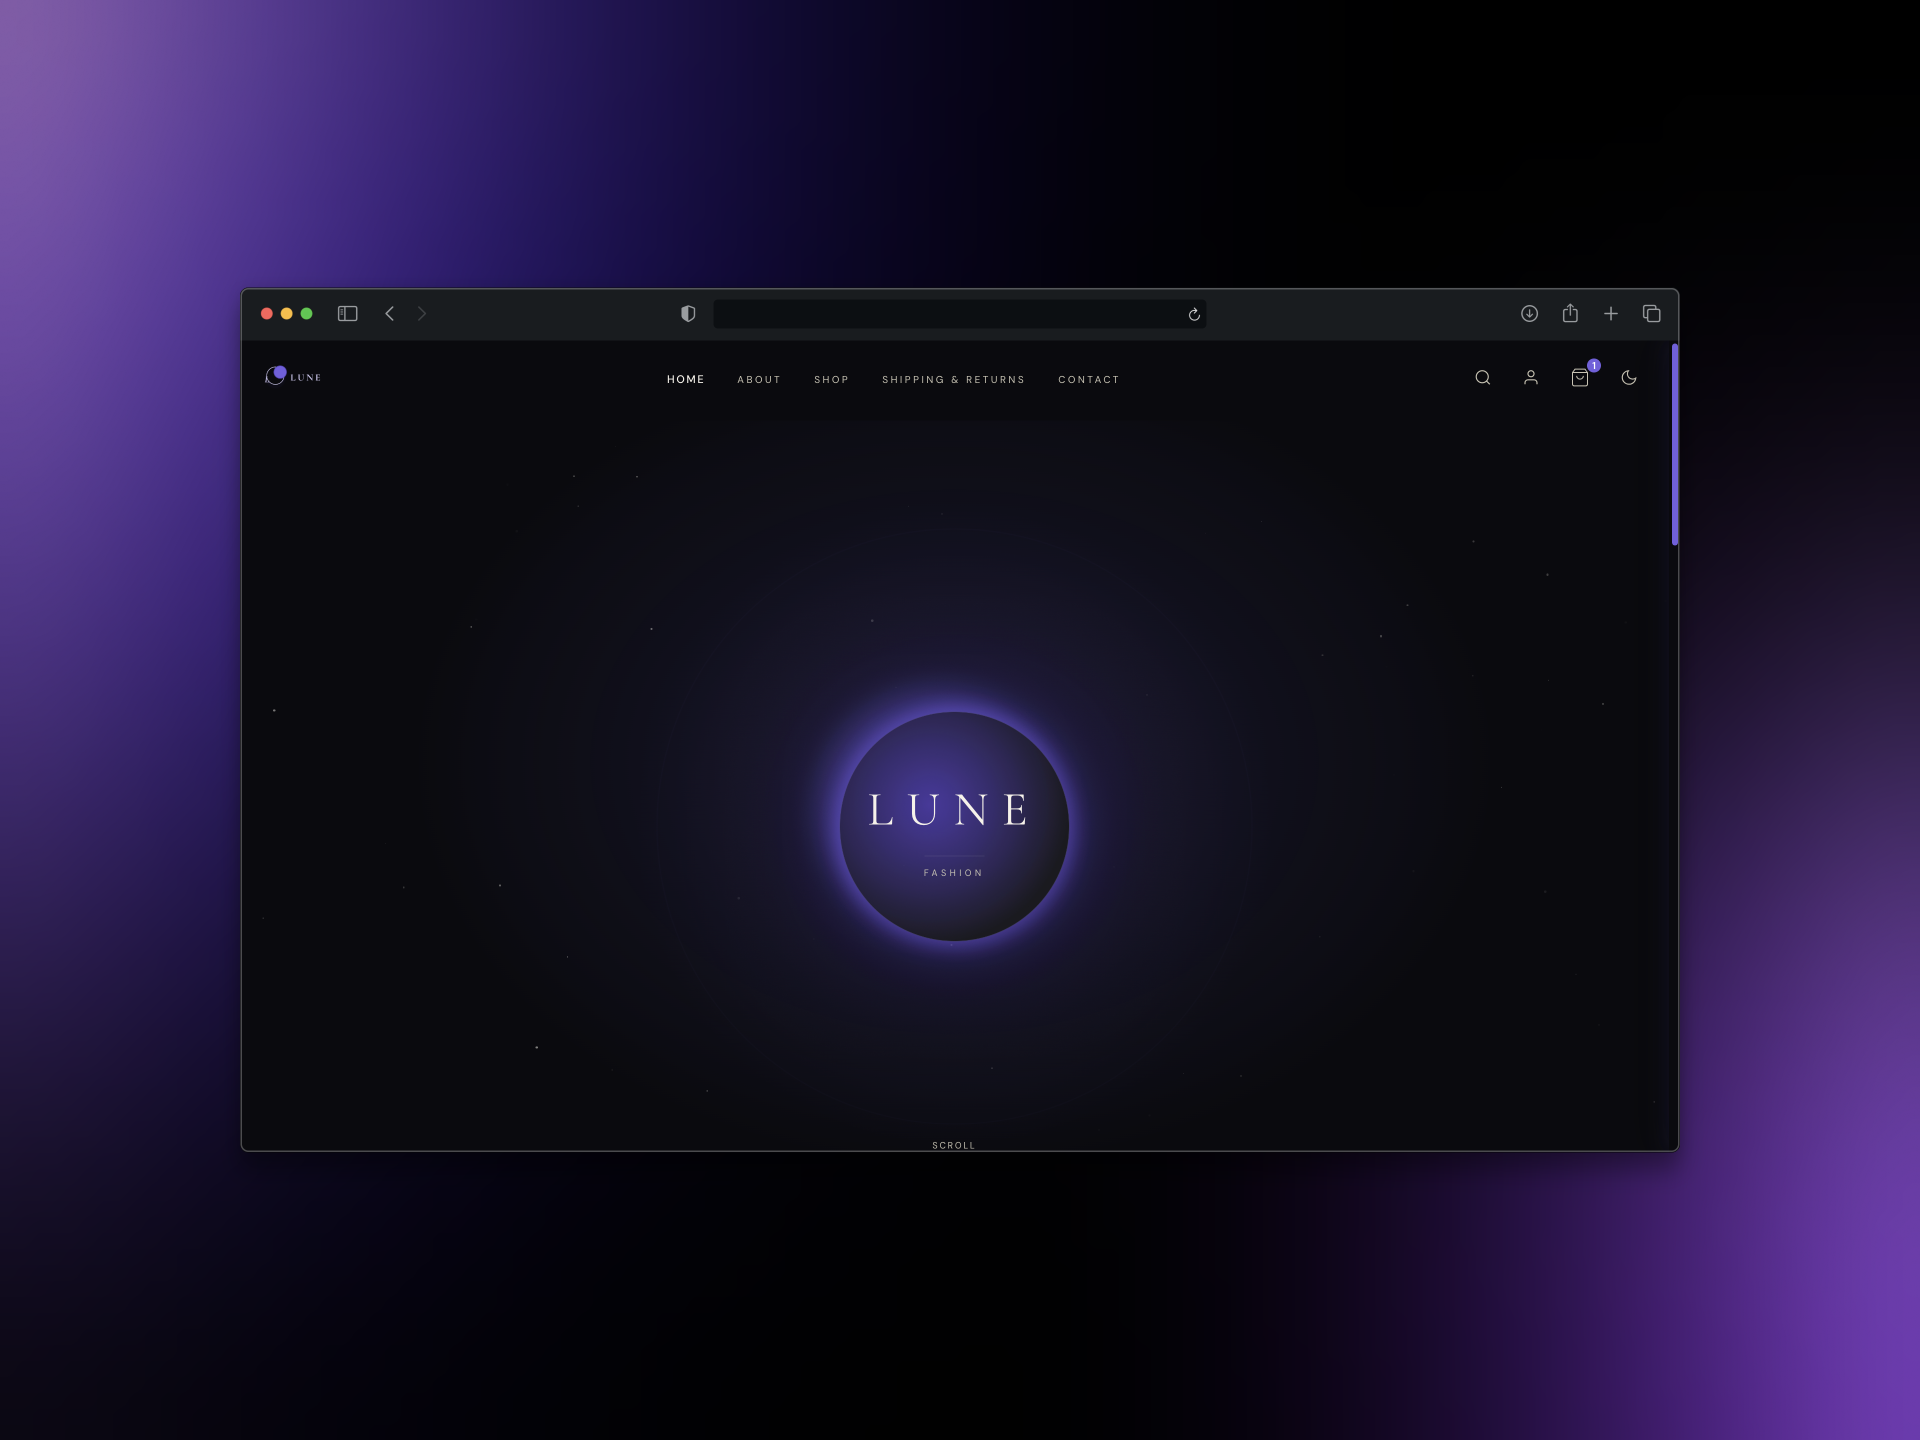
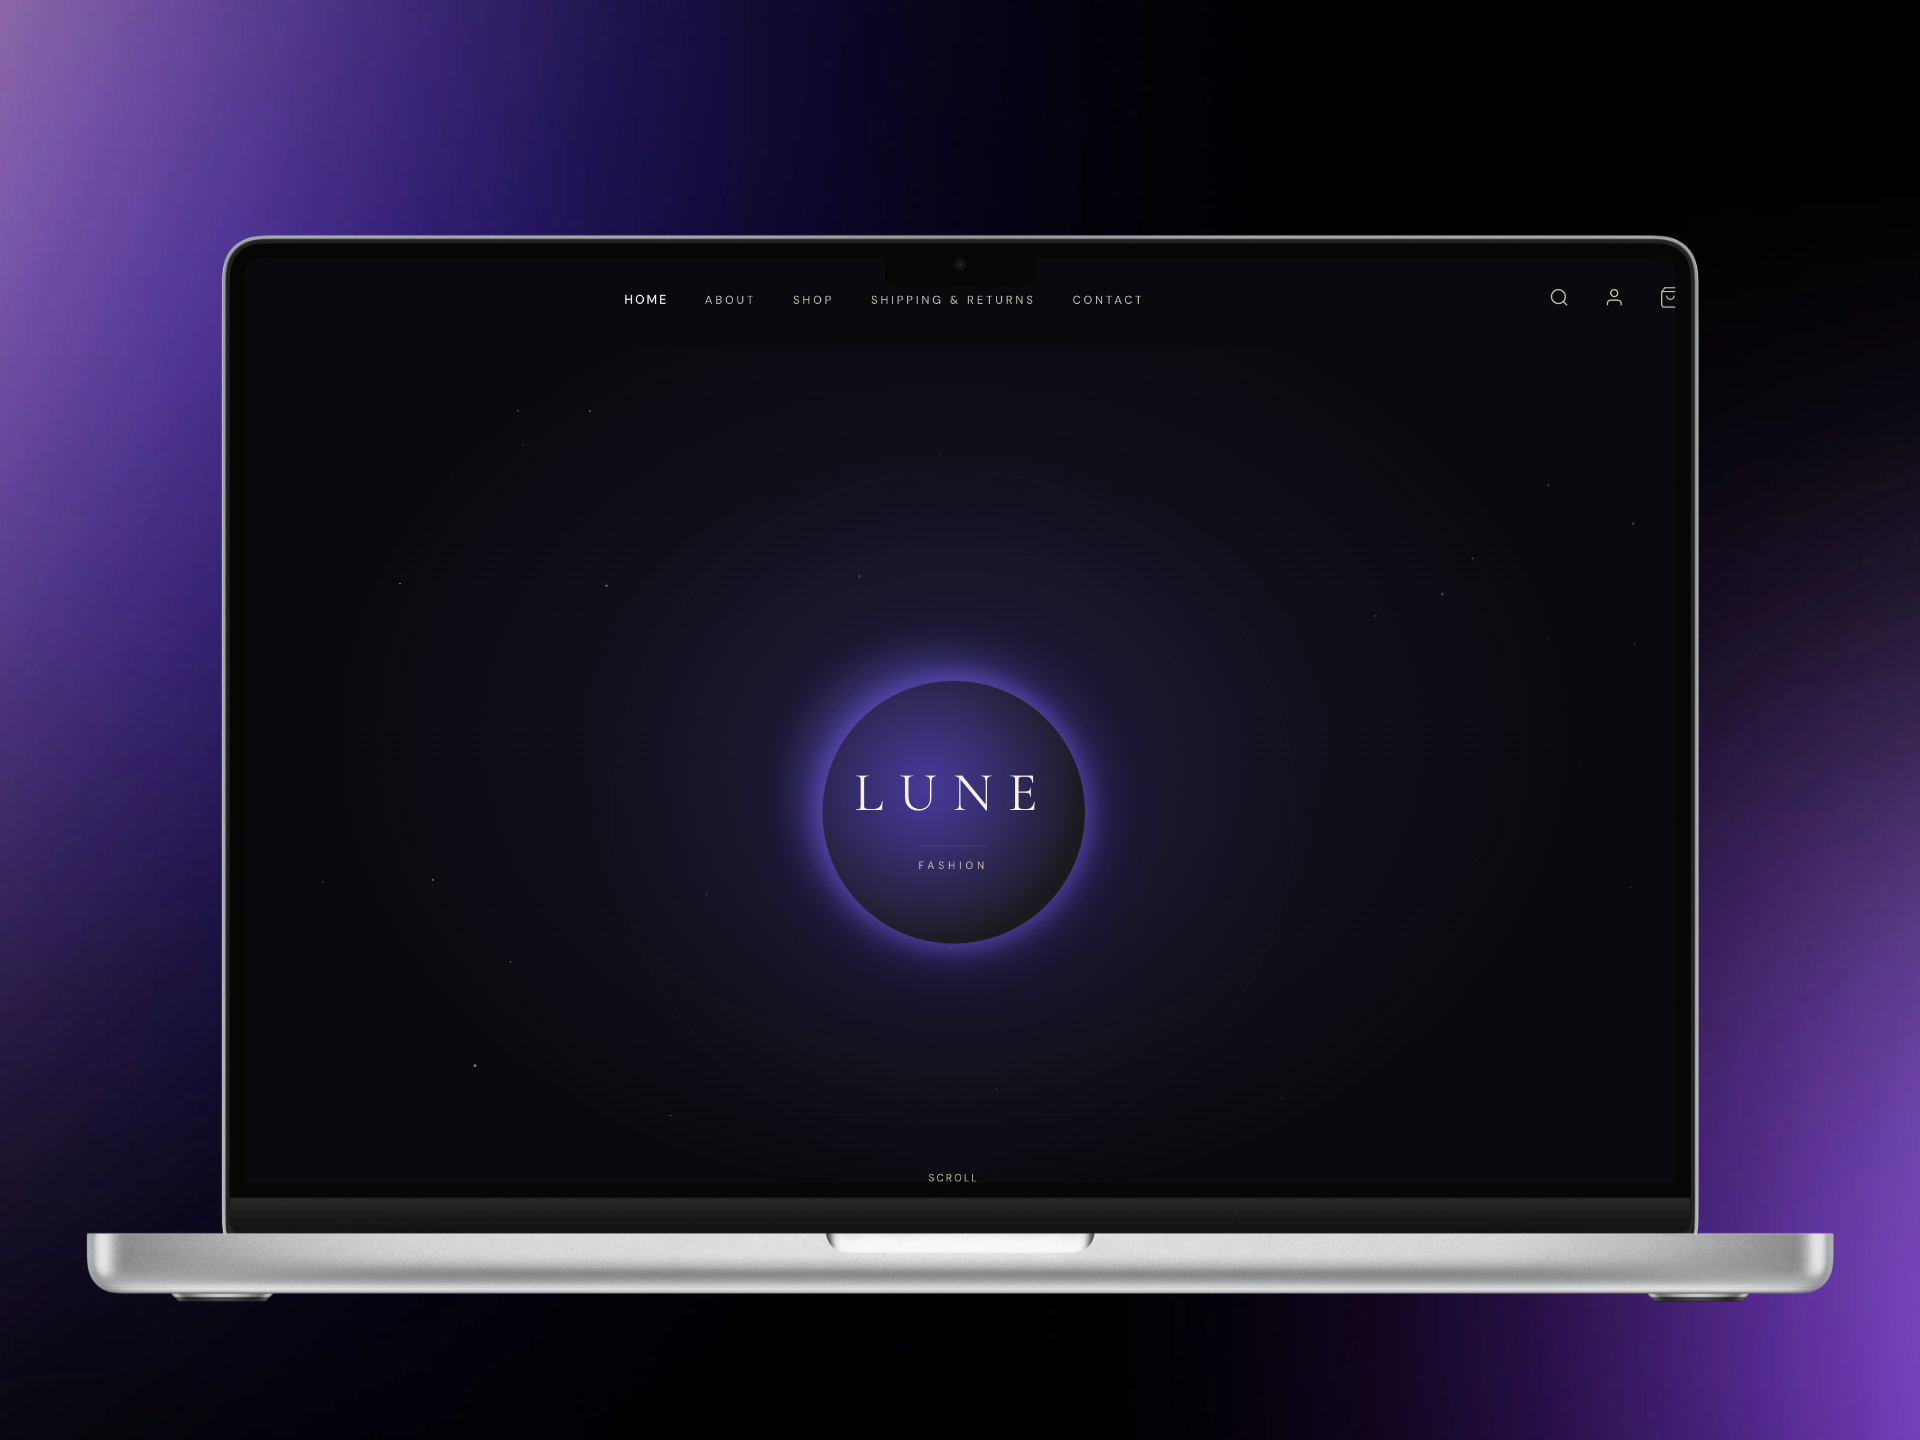
feat: final UI polish, modal responsive fixes, and README update

Changed region(s): [[0.0312, 0.1562, 0.9688, 0.9062], [0.4062, 0.4375, 0.5938, 0.6562]]

diff --git a/lune-shop/src/styles/components/_modals.scss b/lune-shop/src/styles/components/_modals.scss
@@ -27,42 +27,46 @@
 
 /* ─── Modal containers ─── */
 .product-modal {
+  display: flex;
+  flex-direction: column;
   background: var(--bg-body);
   width: 96%;
   max-width: 960px;
-  max-height: 88vh;
+  max-height: 85vh;
   position: relative;
-  overflow: hidden;
   border-radius: 0;
-  display: flex;
-  flex-direction: column;
+  overflow-y: auto;
+  overflow-x: hidden;
+  -webkit-overflow-scrolling: touch;
 
   @include from(tablet) {
     flex-direction: row;
-    max-height: 80vh;
+    overflow: hidden;
   }
 }
 
 .product-layout {
-  display: grid;
-  grid-template-columns: 1fr;
+  display: flex;
+  flex-direction: column;
   width: 100%;
 
   @include from(tablet) {
-    grid-template-columns: 1fr 1fr;
+    display: grid;
+    grid-template-columns: minmax(0, 1fr) minmax(0, 1fr);
+    height: 100%;
+    width: 100%;
   }
 }
 
 .product-gallery {
   background: var(--bg-card);
   width: 100%;
-  min-height: 320px;
-  aspect-ratio: 1 / 1;
-  overflow: hidden;
+  aspect-ratio: 3 / 4;
+  flex-shrink: 0;
 
   @include from(tablet) {
-    min-height: 500px;
     height: 100%;
+    aspect-ratio: auto;
   }
 
   img {
@@ -70,7 +74,6 @@
     height: 100%;
     object-fit: cover;
     display: block;
-    transition: transform 0.6s cubic-bezier(0.25, 1, 0.5, 1);
   }
 
   &:hover {
@@ -79,27 +82,76 @@
 }
 
 .product-details {
-  padding: 40px 32px;
-  overflow-y: auto;
+  padding: 32px 20px;
   display: flex;
   flex-direction: column;
-  gap: 0;
 
   @include from(tablet) {
-    padding: 48px 40px;
+    padding: 40px;
+    height: 100%;
+    overflow-y: auto;
+  }
+
+  .product-size {
+    margin: 24px 0;
+    display: block !important;
+    width: 100%;
+
+    .size-header {
+      display: flex;
+      justify-content: space-between;
+      align-items: center;
+      margin-bottom: 16px;
+    }
+
+    .size-options {
+      display: flex;
+      gap: 10px;
+      flex-wrap: wrap;
+
+      button {
+        min-width: 48px;
+        width: auto;
+        height: 48px;
+        padding: 0 16px;
+        border: 1px solid var(--color-border);
+        background: transparent;
+        color: var(--color-text);
+        cursor: pointer;
+        font-family: var(--font-sans);
+        font-size: 13px;
+        letter-spacing: 0.05em;
+        transition: all 0.3s ease;
+        display: inline-flex;
+        align-items: center;
+        justify-content: center;
+        white-space: nowrap;
+
+        &:hover {
+          border-color: var(--color-text);
+        }
+
+        &.selected {
+          background: var(--color-text);
+          color: var(--bg-body);
+          border-color: var(--color-text);
+        }
+      }
+    }
   }
 }
 
 .product-care {
   border-top: 1px solid var(--color-border);
+  border-bottom: 1px solid var(--color-border);
   margin-top: 24px;
-  padding-top: 8px;
 
   .care-trigger {
     width: 100%;
-    padding: 16px 0;
+    padding: 20px 0;
     display: flex;
     justify-content: space-between;
+    align-items: center;
     background: none;
     border: none;
     color: var(--color-text);
@@ -107,27 +159,27 @@
     letter-spacing: 0.15em;
     text-transform: uppercase;
     cursor: pointer;
-    opacity: 0.7;
     font-family: var(--font-sans);
     transition: opacity 0.2s;
 
     &:hover {
-      opacity: 1;
+      opacity: 0.7;
     }
 
     span {
-      font-size: 14px;
+      font-size: 18px;
       font-weight: 300;
+      line-height: 1;
     }
   }
 
   .care-content {
-    font-size: 12px;
-    color: var(--color-muted);
+    font-size: 13px;
+    color: var(--color-text);
+    opacity: 0.85;
     line-height: 1.6;
     padding-bottom: 12px;
-    padding-right: 20px;
-    transition: opacity 0.3s ease;
+    padding-top: 4px;
   }
 }
 
@@ -188,39 +240,35 @@
 .modal-close,
 #size-guide-close {
   position: absolute;
-  top: 12px;
-  right: 12px;
-  margin: 0;
+  top: 16px;
+  right: 16px;
+  width: 36px;
+  height: 36px;
   background: var(--bg-body);
   border: none;
-  font-size: 24px;
+  border-radius: 50%;
+  font-size: 22px;
   font-weight: 300;
   color: var(--color-text);
   cursor: pointer;
   z-index: 100;
-  padding: 8px;
-  border-radius: 50%;
-  line-height: 1;
-  opacity: 0.6;
+  display: flex;
+  align-items: center;
+  justify-content: center;
+  opacity: 0.9;
+  box-shadow: 0 4px 12px rgba(0, 0, 0, 0.1);
   transition:
-    transform 0.4s cubic-bezier(0.25, 1, 0.5, 1),
-    opacity 0.2s,
-    color 0.2s;
-
-  @include flex-center;
+    transform 0.3s ease,
+    opacity 0.3s;
 
   @include from(tablet) {
-    position: absolute;
     top: 24px;
     right: 24px;
-    margin: 0;
-    background: none;
   }
 
   &:hover {
     opacity: 1;
     transform: rotate(90deg);
-    color: var(--color-accent);
   }
 
   &:focus-visible {
@@ -394,6 +442,35 @@
   }
 }
 
+@include respond-to(768px) {
+  .newsletter-content {
+    flex-direction: column;
+    width: 95%;
+    max-height: 90vh;
+    overflow-y: auto;
+
+    .newsletter-image {
+      height: 250px;
+      flex: none;
+    }
+
+    .newsletter-text {
+      padding: 30px 20px;
+      text-align: center;
+
+      h2 {
+        font-size: 24px;
+        margin: 10px 0;
+      }
+    }
+  }
+
+  .newsletter-form {
+    flex-direction: column;
+    gap: 12px;
+  }
+}
+
 input {
   flex: 1;
   padding: 12px;
@@ -529,11 +606,16 @@ input {
 
 /* ─── Sticky Add to Cart Button in Modal ─── */
 #modal-add-btn {
-  position: sticky;
-  bottom: 0;
+  width: 100%;
   margin-top: 32px;
-  z-index: 30;
-  box-shadow:
-    0 20px 0 20px var(--bg-body),
-    0 -20px 30px 10px var(--bg-body);
+  flex-shrink: 0;
+
+  @include from(tablet) {
+    position: sticky;
+    bottom: 0;
+    margin-top: auto;
+    box-shadow:
+      0 -10px 20px 10px var(--bg-body),
+      0 20px 0 20px var(--bg-body);
+  }
 }